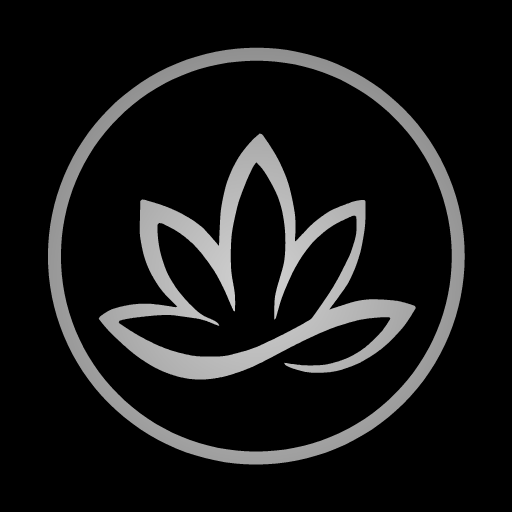
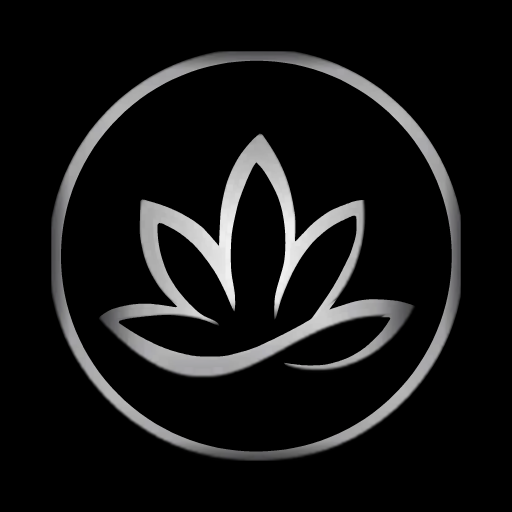
Ikon install: kilau logam asli kembali
Warna dari ikon launcher lama (alat/ikon-lama-512.png), tepi dari masker vektor. Dilaporkan: versi perak rata 'shadow2nya hilang'.

diff --git a/alat/bangun-ikon.py b/alat/bangun-ikon.py
@@ -6,7 +6,13 @@ ikon launcher APK, cincinnya cuma ~42% lebar ikon. Sekarang:
   icon-*.png           purpose "any"      cincin 90% lebar
   icon-maskable-*.png  purpose "maskable" cincin 80% = pas zona aman masker
                        Android (lingkaran 80%), jadi tidak terpotong launcher.
-Latar #000 (sama dengan layar muat), logo perak radial seperti aslinya."""
+Latar #000 (sama dengan layar muat).
+
+WARNANYA DARI IKON LAMA, TEPINYA DARI VEKTOR (2026-09-24, dilaporkan "shadow2nya
+hilang, malah plain grey" pada versi perak radial rata): alat/ikon-lama-512.png
+(ikon launcher APK, logo 214px) diperbesar Lanczos lalu di-dilate supaya
+kilaunya menjangkau tepi, dan masker vektor yang memotong tepinya -- jadi kilau
+logam aslinya ikut, tepinya tetap tajam walau diperbesar ~1,9x."""
 import os, re, sys
 import numpy as np, cv2
 sys.path.insert(0, os.path.dirname(os.path.abspath(__file__)))
@@ -16,6 +22,7 @@ OUT = sys.argv[1]
 ALAT = os.path.dirname(os.path.abspath(__file__))
 PADMA = jiplak(os.path.join(ALAT, 'logo-padma.jpg'), 'terang', 100, 0, 'luas')
 SUPER = 4  # sampel lebih lalu dikecilkan = tepi halus
+LAMA = cv2.imread(os.path.join(ALAT, 'ikon-lama-512.png'))[..., :3].astype(np.float32)
 
 
 def subpath(d):
@@ -55,11 +62,14 @@ def ikon(ukuran, porsi):
         pts = np.array([[(x - cx) * skala + n / 2, (y - cy) * skala + n / 2] for x, y in poli])
         cv2.fillPoly(m, [np.round(pts * 16).astype(np.int32)], 255, lineType=cv2.LINE_AA, shift=4)
         masker = cv2.bitwise_xor(masker, (m > 127).astype(np.uint8) * 255)
-    # perak radial: pusat (0, 6) satuan logo, r 58 -- sama dengan favicon/aslinya
-    yy, xx = np.mgrid[0:n, 0:n].astype(np.float32)
-    r = np.hypot((xx - n / 2) / skala + cx - 0, (yy - n / 2) / skala + cy - 6) / 58
-    stop = np.interp(np.clip(r, 0, 1), [0, .5, 1], [0xD2, 0xB2, 0x8E])
-    rgb = np.dstack([stop] * 3) * (masker[..., None] / 255.0)
+    # cat dari ikon lama: kotak logonya (148..362) dipetakan ke kotak logo vektor
+    sisi = int(round(lebar * skala))
+    cat = cv2.resize(LAMA[148:363, 148:363], (sisi, sisi), interpolation=cv2.INTER_LANCZOS4)
+    cat = cv2.dilate(cat, np.ones((5 * SUPER, 5 * SUPER), np.uint8))
+    kanvas = np.zeros((n, n, 3), np.float32)
+    o = (n - sisi) // 2
+    kanvas[o:o + sisi, o:o + sisi] = cat
+    rgb = kanvas * (masker[..., None] / 255.0)
     kecil = cv2.resize(rgb.astype(np.float32), (ukuran, ukuran), interpolation=cv2.INTER_AREA)
     return np.clip(np.round(kecil), 0, 255).astype(np.uint8)
 
